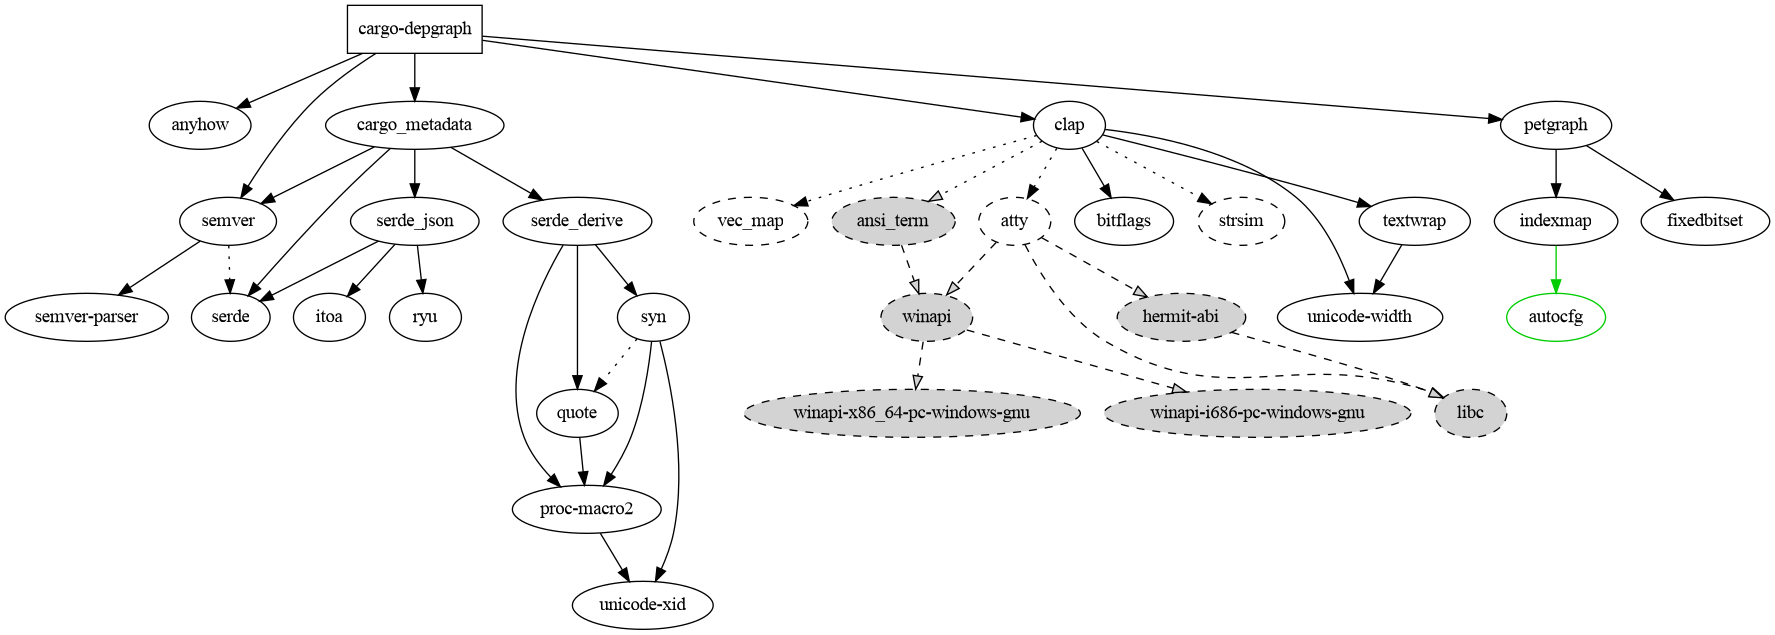
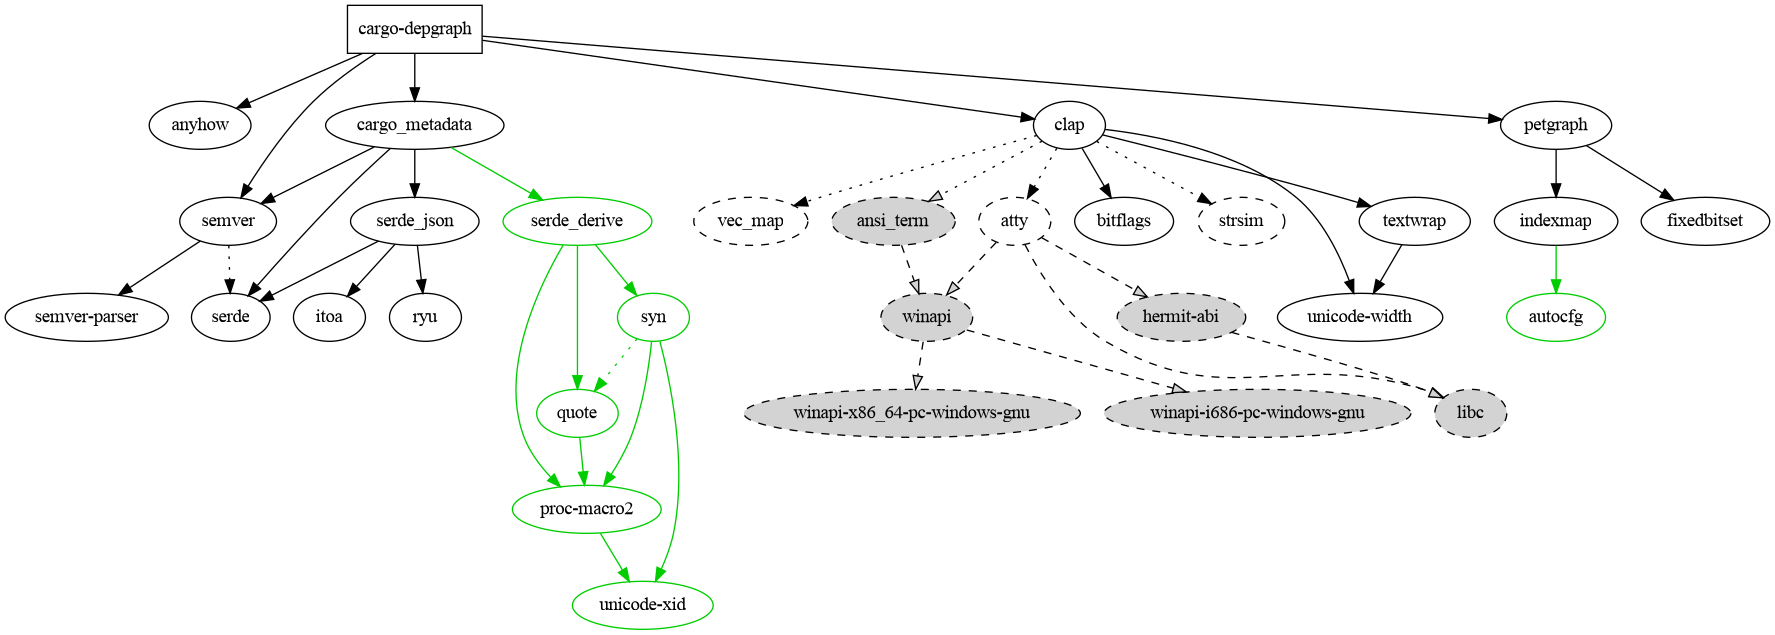
Mark proc-macros as build deps

diff --git a/src/graph.rs b/src/graph.rs
@@ -10,7 +10,11 @@ use petgraph::{
     Direction,
 };
 
-use crate::{cli::Config, dep_info::DepInfo, package::Package};
+use crate::{
+    cli::Config,
+    dep_info::{DepInfo, DepKind},
+    package::Package,
+};
 
 pub type DepGraph = StableDiGraph<Package, DepInfo, u16>;
 
@@ -187,11 +191,17 @@ impl DepGraphBuilder {
                     continue;
                 }
 
+                let pkg = get_package(&self.packages, &dep.pkg);
+                let is_proc_macro = is_proc_macro(pkg);
+
+                if is_proc_macro && !config.build_deps {
+                    continue;
+                }
+
                 let child_idx = match self.node_indices.entry(dep.pkg.clone()) {
                     HashMapEntry::Occupied(o) => *o.get(),
                     HashMapEntry::Vacant(v) => {
-                        let pkg = get_package(&self.packages, &dep.pkg);
-                        let idx = self.graph.add_node(Package::new(&pkg, false));
+                        let idx = self.graph.add_node(Package::new(pkg, false));
                         self.deps_add_queue.push_back(dep.pkg.clone());
                         v.insert(idx);
                         idx
@@ -221,7 +231,7 @@ impl DepGraphBuilder {
                             parent_idx,
                             child_idx,
                             DepInfo {
-                                kind: info.kind.into(),
+                                kind: if is_proc_macro { DepKind::BUILD } else { info.kind.into() },
                                 is_target_dep: info.target.is_some(),
                                 is_optional,
                                 is_optional_direct: is_optional,
@@ -239,6 +249,15 @@ impl DepGraphBuilder {
 
 fn get_package<'a>(packages: &'a [MetaPackage], pkg_id: &PackageId) -> &'a MetaPackage {
     packages.iter().find(|pkg| pkg.id == *pkg_id).unwrap()
+}
+
+fn is_proc_macro(pkg: &MetaPackage) -> bool {
+    let res = pkg.targets.iter().any(|t| t.kind.iter().any(|k| k == "proc-macro"));
+    if res && pkg.targets.iter().any(|t| t.kind.iter().any(|k| k == "lib")) {
+        eprintln!("enountered a crate that is both a regular library and a proc-macro");
+    }
+
+    res
 }
 
 pub fn skip_dep(config: &Config, info: &cargo_metadata::DepKindInfo) -> bool {
